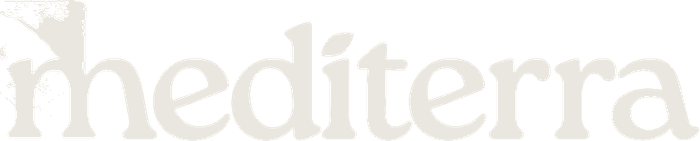
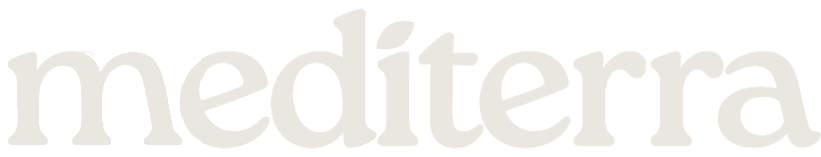
fix: seamless marquee loop and a clean Mediterra wordmark
The marquee's cloned row used lazy images that never entered the
viewport, so the clone measured narrower than the row and the -50%
translate overlapped Women in Technology with Y Combinator at the seam.
ClientWordmark now takes a `loading` prop and the marquee passes 'eager';
a unit test guards it.

The Mediterra wordmark was cropped from the lockup by column and carried
a slice of the watercolour cross over the "m". Re-cut it by colour (text
green vs cross greens), cleared the arm above the m, despeckled, and
re-baked the cream version.

diff --git a/src/components/sections/ClientMarquee/ClientMarquee.test.tsx b/src/components/sections/ClientMarquee/ClientMarquee.test.tsx
@@ -1,0 +1,24 @@
+import { render, screen } from '@testing-library/react'
+import { describe, expect, it, vi } from 'vitest'
+import { LanguageProvider } from '../../../i18n/LanguageProvider'
+import { ClientMarquee } from './ClientMarquee'
+
+vi.mock('../../../hooks/usePrefersReducedMotion', () => ({
+  usePrefersReducedMotion: () => false,
+}))
+
+describe('ClientMarquee', () => {
+  it('loads every mark eagerly so the off-screen clone measures the same as the row', () => {
+    // The track scrolls by -50% of its own width. A lazy image in the clone
+    // never enters the viewport, so the clone would be narrower and the loop
+    // would overlap itself at the seam.
+    render(
+      <LanguageProvider>
+        <ClientMarquee />
+      </LanguageProvider>,
+    )
+    const marks = screen.getAllByRole('img', { hidden: true })
+    expect(marks.length).toBeGreaterThan(0)
+    for (const mark of marks) expect(mark).toHaveAttribute('loading', 'eager')
+  })
+})

diff --git a/src/components/sections/ClientMarquee/ClientMarquee.tsx b/src/components/sections/ClientMarquee/ClientMarquee.tsx
@@ -8,7 +8,12 @@ function LogoRow({ hidden }: { hidden?: boolean }) {
   return (
     <div aria-hidden={hidden} className="flex shrink-0 items-center gap-20 pr-20">
       {marqueeClients.map((client) => (
-        <ClientWordmark key={client.id} client={client} className="opacity-70" />
+        <ClientWordmark
+          key={client.id}
+          client={client}
+          className="opacity-70"
+          loading="eager"
+        />
       ))}
     </div>
   )
@@ -31,7 +36,12 @@ export function ClientMarquee() {
           className="flex flex-wrap items-center justify-center gap-x-14 gap-y-6"
         >
           {marqueeClients.map((client) => (
-            <ClientWordmark key={client.id} client={client} className="opacity-70" />
+            <ClientWordmark
+          key={client.id}
+          client={client}
+          className="opacity-70"
+          loading="eager"
+        />
           ))}
         </div>
       ) : (

diff --git a/src/components/ui/ClientWordmark.tsx b/src/components/ui/ClientWordmark.tsx
@@ -12,9 +12,14 @@ const FLAIR_CLASSES = {
 export function ClientWordmark({
   client,
   className,
+  loading = 'lazy',
 }: {
   client: Client
   className?: string
+  // The marquee duplicates its row off-screen; a lazy image there never
+  // loads, the clone measures narrower than the original, and the loop
+  // overlaps itself. That caller passes 'eager'.
+  loading?: 'lazy' | 'eager'
 }) {
   const { l } = useLanguage()
   if (client.mark) {
@@ -22,7 +27,7 @@ export function ClientWordmark({
       <img
         src={client.mark.src}
         alt={l(client.mark.alt)}
-        loading="lazy"
+        loading={loading}
         className={cn(
           'max-tab:max-h-6 max-tab:max-w-[7.5rem] h-auto max-h-8 w-auto max-w-[9.5rem] select-none',
           className,
